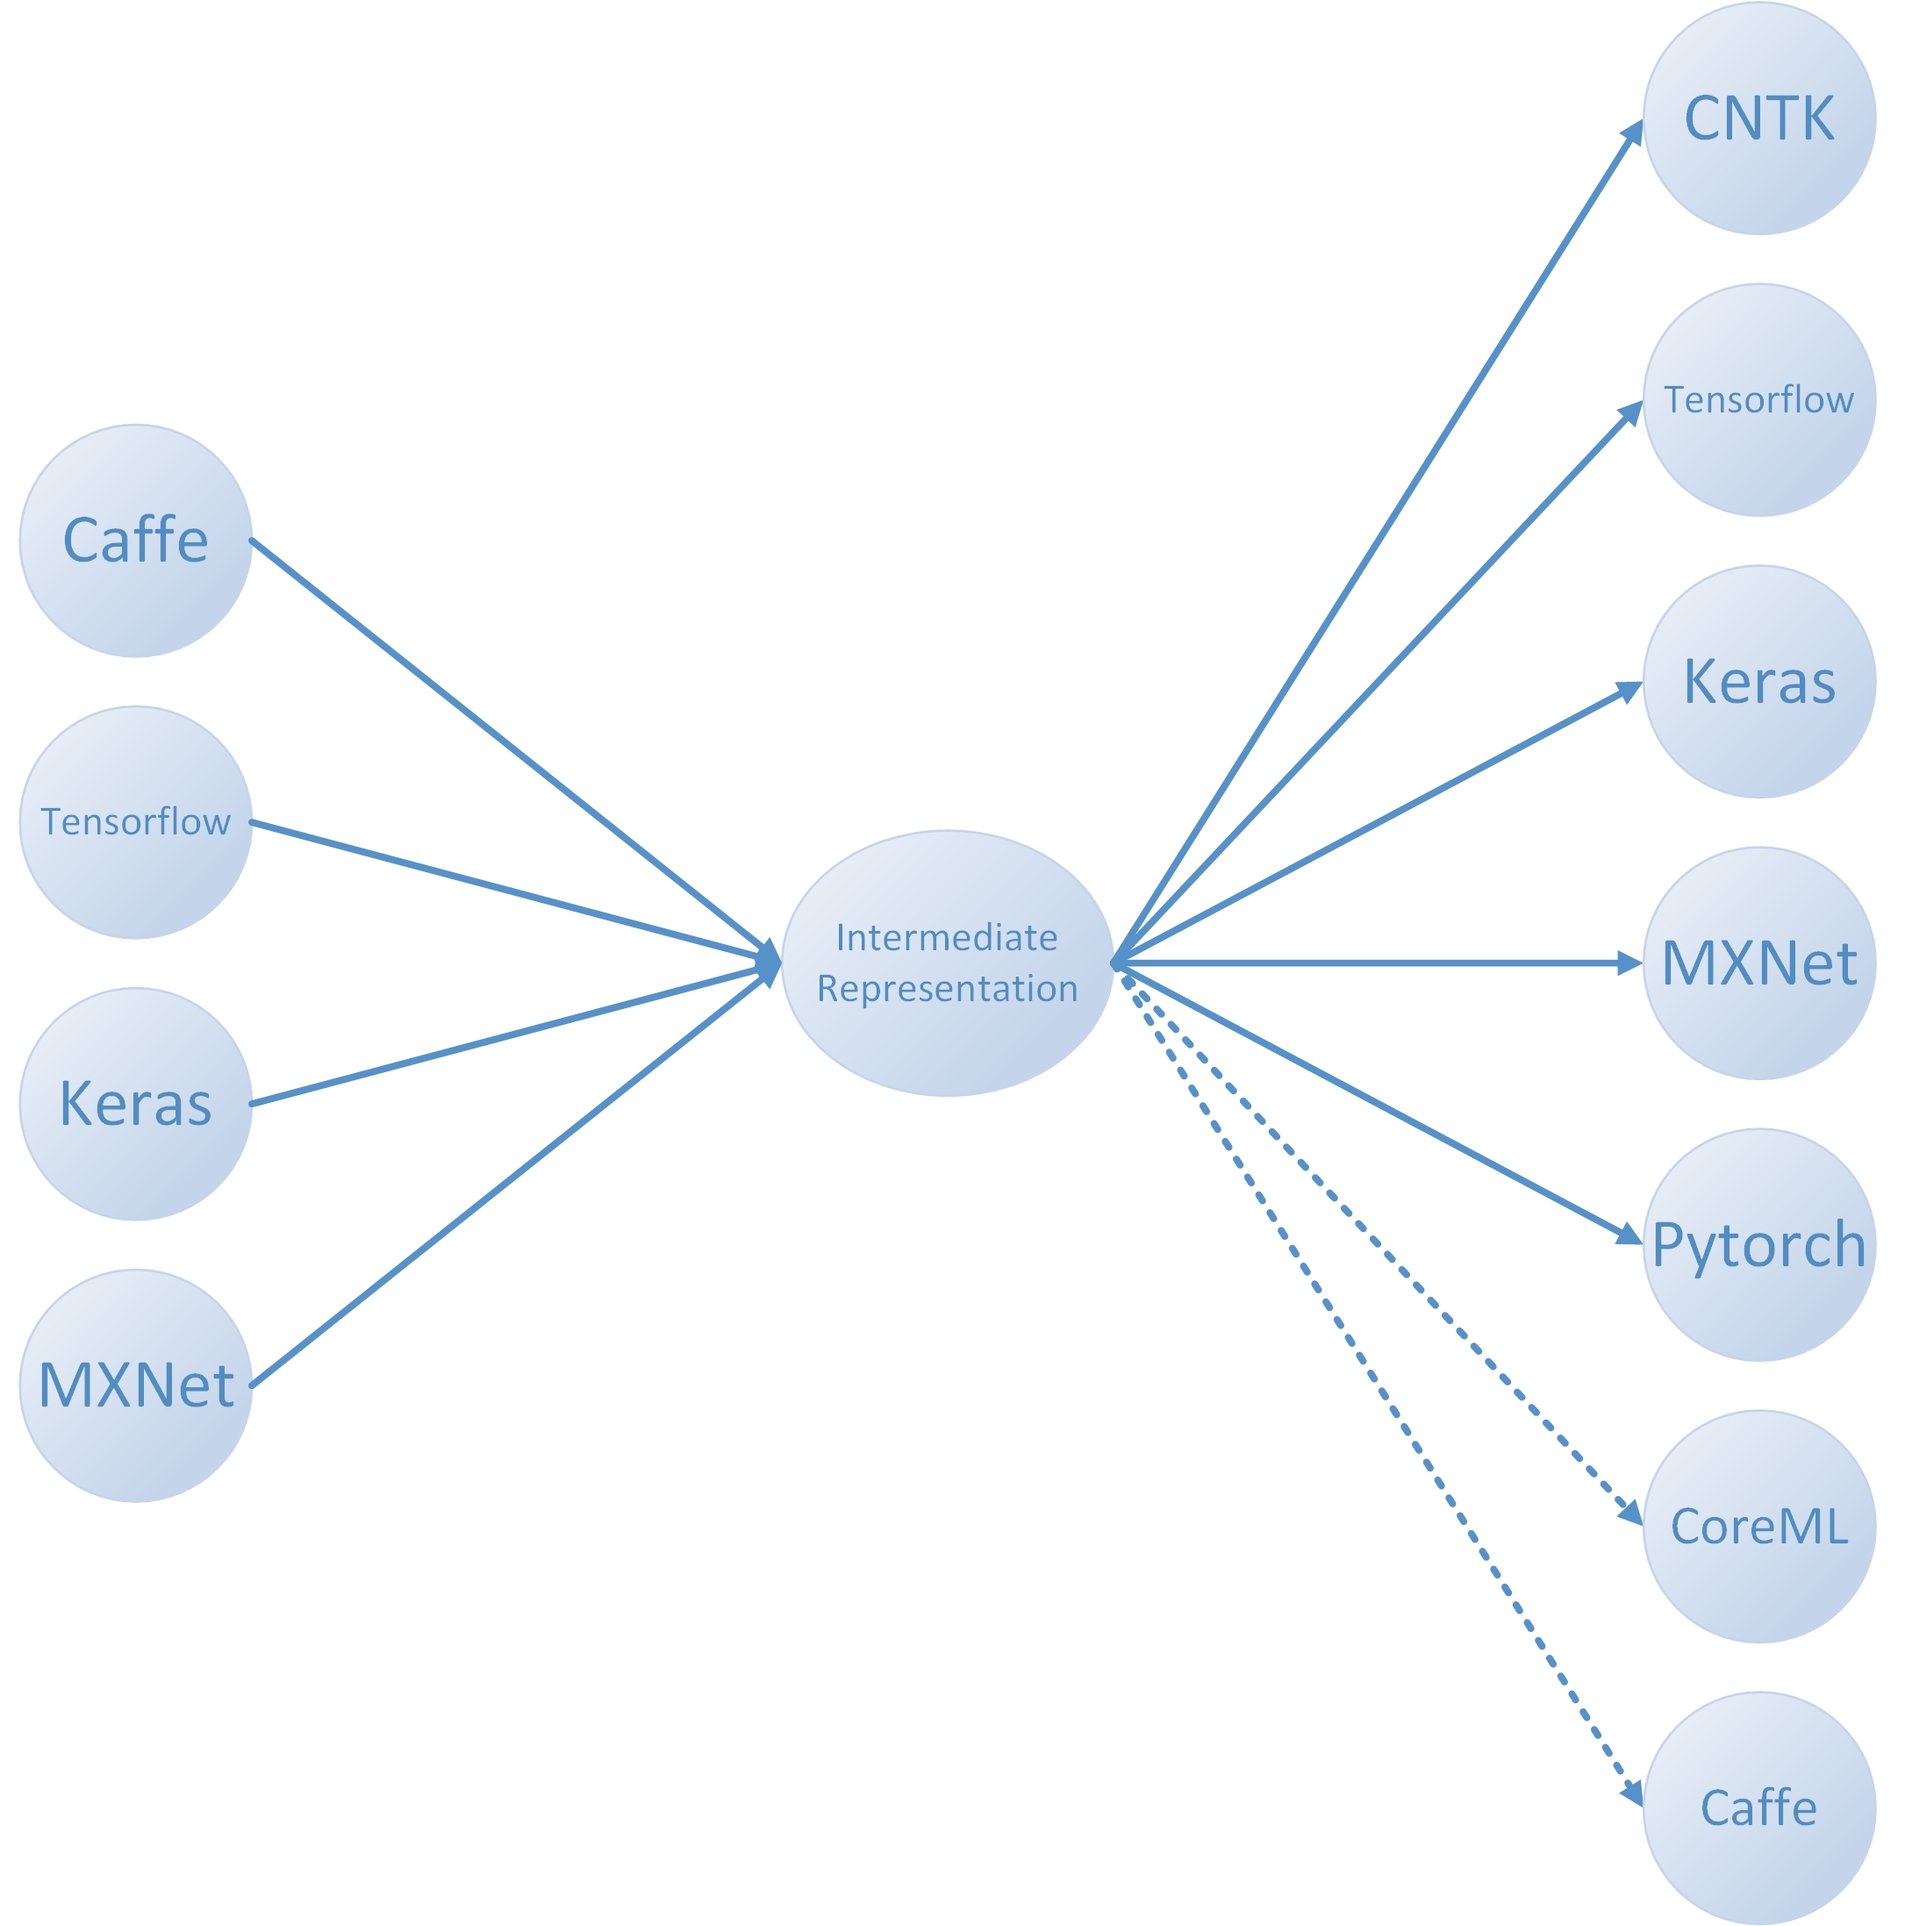
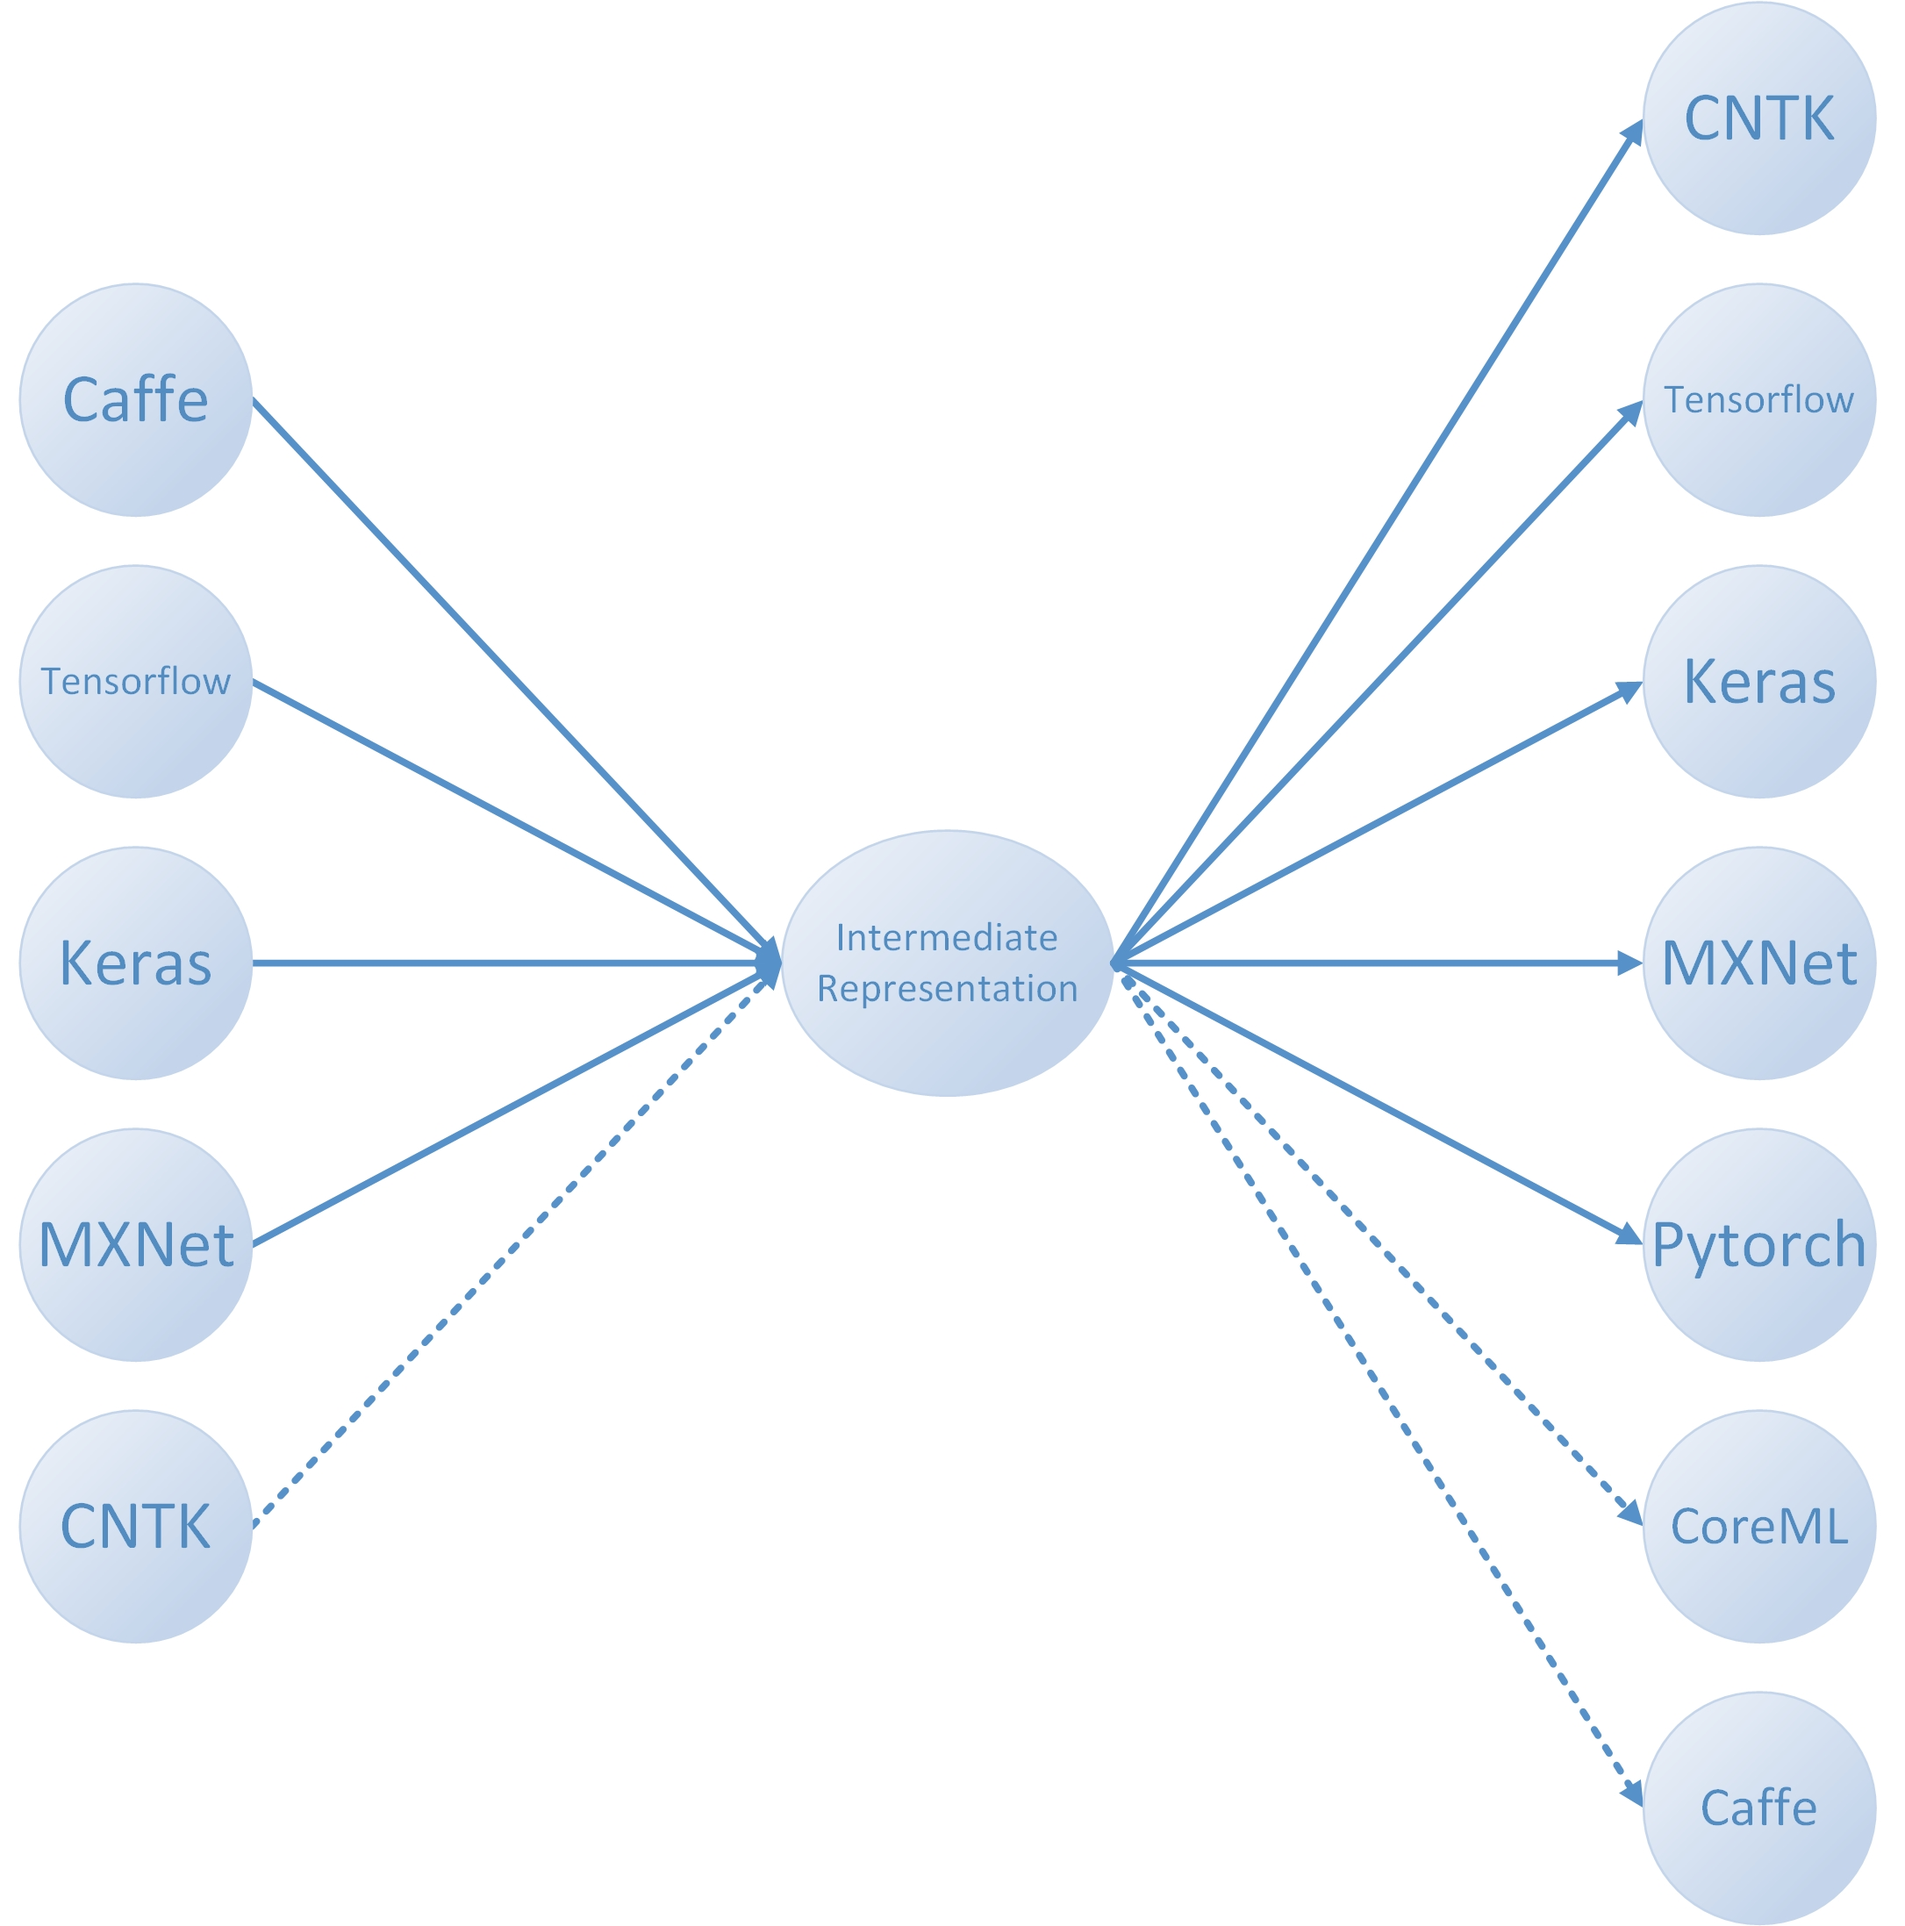
add some layer of CNTK.

Changed region(s): [[0.0, 0.1239, 0.4012, 0.8674], [0.1852, 0.6506, 0.216, 0.6815], [0.1852, 0.3718, 0.216, 0.4027]]

diff --git a/mmdnn/conversion/cntk/cntk_parser.py b/mmdnn/conversion/cntk/cntk_parser.py
@@ -66,7 +66,6 @@ class CntkParser(Parser):
         for layer in self.src_graph.topological_sort:
             current_node = self.src_graph.get_node(layer)
             node_type = current_node.type
-            print (current_node.name, node_type)
             if hasattr(self, "rename_" + node_type):
                 func = getattr(self, "rename_" + node_type)
                 func(current_node)
@@ -81,15 +80,13 @@ class CntkParser(Parser):
         IR_node.op = new_op
 
         kwargs = {}
-        # if 'data_format' in source_node.layer.attr:
-        #     kwargs['data_format'] = source_node.get_attr('data_format')
 
         if hasattr(source_node.layer, 'dtype'):
             assert source_node.layer.dtype in CntkParser.dtype_map, 'type [{}] is unknown.'.format(source_node.layer.dtype)
             IR_node.attr["dtype"].type = CntkParser.dtype_map[source_node.layer.dtype]
 
         if hasattr(source_node.layer, 'shape'):
-            shape =  (-1,) + source_node.layer.shape
+            shape =  (-1,) + source_node.layer.shape[1:]
             if shape_transpose:
                 shape = CntkParser.channel_first_shape_to_IR(shape)
             shape = list_to_shape(shape)
@@ -111,25 +108,37 @@ class CntkParser(Parser):
         return True
 
 
-
     def rename_UNKNOWN(self, source_node):
         print("Cntk Parser has not supported operator [%s] with name [%s]."
               % (source_node.type, source_node.name))
 
         print (source_node.layer)
         print (source_node.layer.parameters)
-        print (source_node.attributes)
-        # for input in source_node.layer.inputs:
-        #     print (input)
-        #     print (dir(input))
+        print (source_node.layer.inputs)
 
         assert False
+
+
+    @staticmethod
+    def get_ndarray(variable):
+        if variable.is_parameter:
+            return variable.as_parameter().asarray()
+
+        elif variable.is_constant:
+            return variable.as_constant().asarray()
+
+        else:
+            raise ValueError("Unknown variable [{}].".format(variable))
 
 
     def rename_Convolution(self, source_node):
         IR_node = self._convert_identity_operation(source_node, new_op="Conv")
 
-        W = source_node.layer.parameters[0].asarray()
+        for input in source_node.layer.inputs:
+            if input.name.endswith(".W"):
+                W = self.get_ndarray(input)
+                break
+
         W = self.channel_first_conv_kernel_to_IR(W)
         self.set_weight(source_node.name, 'weights', W)
 
@@ -183,8 +192,9 @@ class CntkParser(Parser):
 
 
     def rename_Reshape(self, source_node):
-        IR_node = self._convert_identity_operation(source_node, 1)
-        kwargs = {'shape' : self.tensor_shape_to_list(source_node.get_attr('_output_shapes'))[0]}
+        IR_node = self._convert_identity_operation(source_node, shape_transpose=True)
+        new_shape = source_node.get_attr('newShape')
+        kwargs = {'shape' : self.channel_first_shape_to_IR(new_shape)}
         assign_IRnode_values(IR_node, kwargs)
 
 
@@ -279,8 +289,9 @@ class CntkParser(Parser):
 
 
     def rename_DataInput(self, source_node):
-        IR_node = self._convert_identity_operation(source_node, new_op='DataInput', shape_transpose=True)
-        IR_node.attr['shape'].shape.MergeFromString(IR_node.attr['_output_shapes'].list.shape[0].SerializeToString())
+        IR_node = self._convert_identity_operation(source_node, new_op='DataInput')
+        shape = [-1] + list(source_node.layer.shape)
+        assign_IRnode_values(IR_node, {'shape' : list_to_shape(self.channel_first_shape_to_IR(shape))})
 
 
     # def rename_Pad(self, source_node):
@@ -327,21 +338,17 @@ class CntkParser(Parser):
 
     def rename_BatchNormalization(self, source_node):
         for param in source_node.layer.inputs:
-            print (param)
             if param.name.endswith('scale'):
-                self.set_weight(source_node.name, 'scale', param.as_parameter().asarray())
+                self.set_weight(source_node.name, 'scale', self.get_ndarray(param))
 
             elif param.name.endswith('bias'):
-                self.set_weight(source_node.name, 'bias', param.as_parameter().asarray())
+                self.set_weight(source_node.name, 'bias', self.get_ndarray(param))
 
             elif param.name.endswith('Mean'):
-                self.set_weight(source_node.name, 'mean', param.as_constant().asarray())
+                self.set_weight(source_node.name, 'mean', self.get_ndarray(param))
 
             elif param.name.endswith('Variance'):
-                self.set_weight(source_node.name, 'var', param.as_constant().asarray())
-
-            # else:
-            #     raise ValueError("Unknown BN layer parameter [{}].".format(param.name))
+                self.set_weight(source_node.name, 'var', self.get_ndarray(param))
 
         IR_node = self._convert_identity_operation(source_node, 1, 'BatchNorm')
 

diff --git a/mmdnn/conversion/cntk/cntk_graph.py b/mmdnn/conversion/cntk/cntk_graph.py
@@ -67,17 +67,8 @@ class CntkGraph(Graph):
                         self.layer_map[input_node.uid] = CntkGraphNode(input_node)
                     self._make_connection(input_node.uid, son_node.uid)
 
-                else:
-                    if not input_node.name in self.weights:
-                        # print ("Warning: node {} is not found.".format(input_node.name))
-                        pass
-
 
     def build(self):
-        for param in self.model.parameters:
-            self.weights[param.name] = param.asarray()
-            # print (param.name, self.weights[param.name].shape)
-
         for output in self.model.outputs:
             output = output.owner
             self.layer_map[output.uid] = CntkGraphNode(output)
